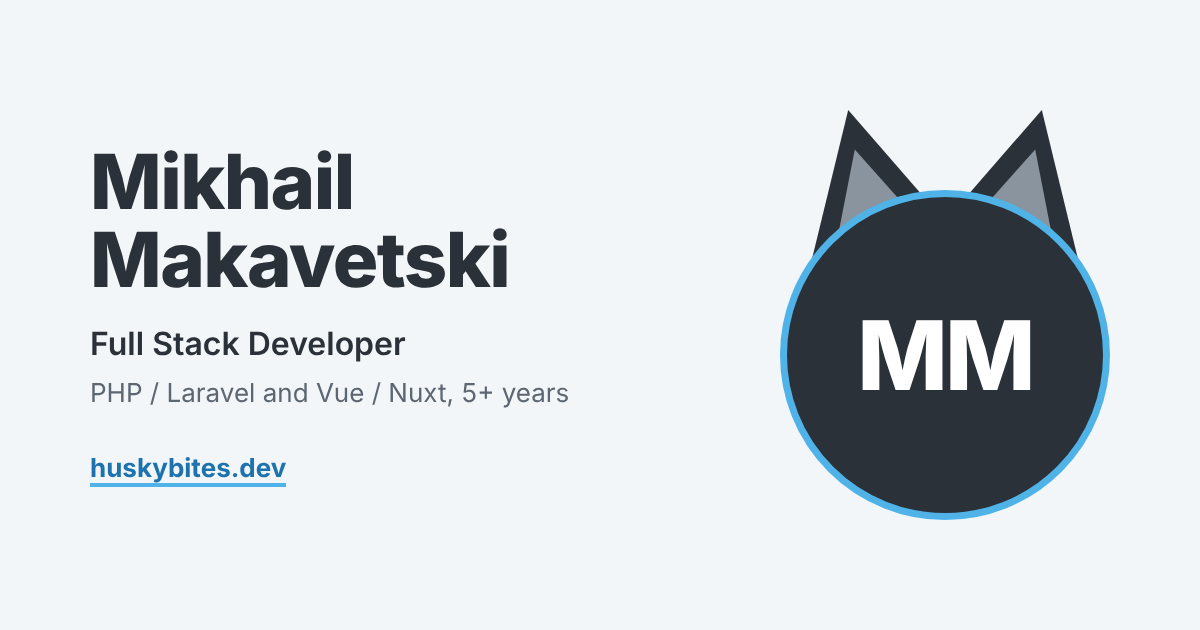
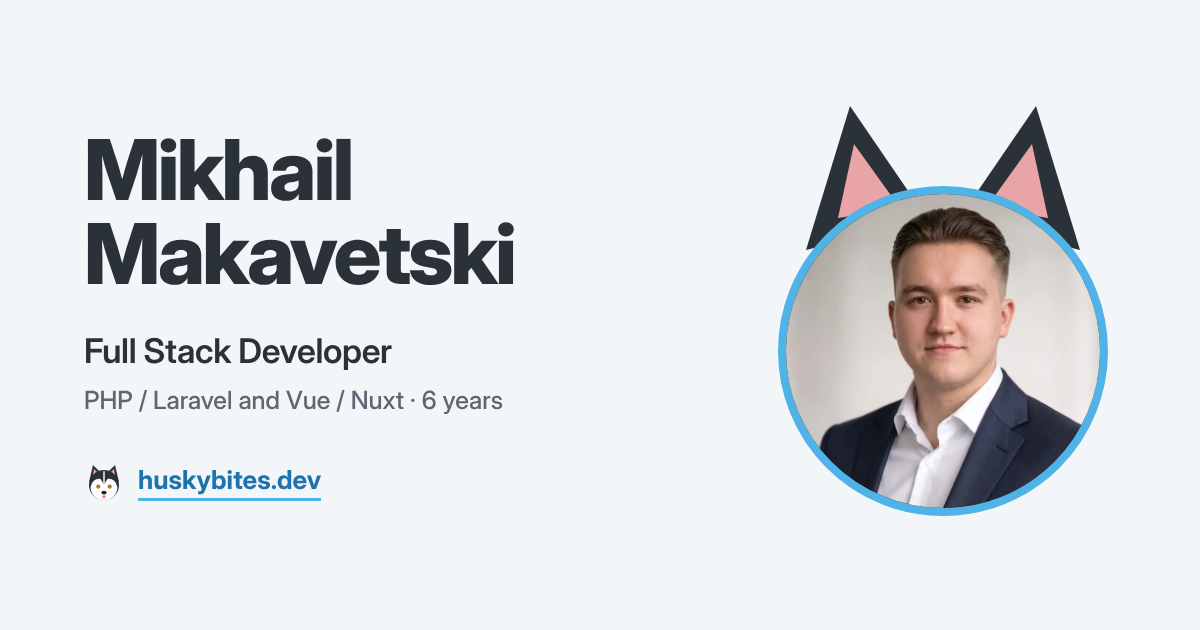
Link preview with the photo, RU and EN

diff --git a/app/components/Portfolio.vue b/app/components/Portfolio.vue
@@ -41,7 +41,11 @@ useHead(() => ({
     { property: 'og:title', content: t.value.title },
     { property: 'og:description', content: t.value.description },
     { property: 'og:url', content: site + (props.lang === 'ru' ? '/' : '/en') },
-    { property: 'og:image', content: `${site}/og.png` },
+    // link preview picture (Telegram, LinkedIn…): photo with the husky ears, in the page's language
+    { property: 'og:image', content: `${site}/${props.lang === 'ru' ? 'og-ru' : 'og'}.png` },
+    { property: 'og:image:width', content: '1200' },
+    { property: 'og:image:height', content: '630' },
+    { property: 'og:image:alt', content: t.value.title },
     { property: 'og:locale', content: props.lang === 'ru' ? 'ru_RU' : 'en_US' },
     { name: 'twitter:card', content: 'summary_large_image' },
     { name: 'theme-color', content: '#2B3138' },
@@ -171,7 +175,7 @@ function cvClick() {
         <p class="note">{{ t.languages }}</p>
 
         <h2 class="sub">{{ t.educationTitle }}</h2>
-        <p class="edu"><span class="period">{{ t.education.period }}</span> {{ t.education.text }}</p>
+        <p class="edu"><span class="period">{{ t.education.period }}</span><span>{{ t.education.text }}</span></p>
       </section>
 
       <section id="contacts" class="block contacts">
@@ -336,8 +340,8 @@ h3 { font-size: 20px; margin: 0; color: var(--ink); }
 .skills dt { color: var(--muted); }
 .skills dd { margin: 0; color: var(--ink); max-width: 72ch; }
 .note { color: var(--muted); margin: 22px 0 0; }
-.edu { margin: 0; color: var(--ink); }
-.edu .period { display: inline-block; min-width: 190px; margin-right: 32px; }
+/* same columns as the experience and skills: the text wraps in its own column, not under the years */
+.edu { margin: 0; color: var(--ink); display: grid; grid-template-columns: 190px 1fr; gap: 32px; }
 
 .contacts { display: grid; grid-template-columns: 1fr minmax(280px, 460px); gap: 32px; align-items: center; }
 .contacts .note { margin: -12px 0 18px; }
@@ -408,7 +412,7 @@ a:focus-visible { outline: 3px solid var(--ice); outline-offset: 3px; border-rad
   .job, .skills { grid-template-columns: 1fr; gap: 6px; }
   .skills dd { margin-bottom: 10px; }
   .job-body { padding-left: 20px; }
-  .edu .period { min-width: 0; display: block; margin-bottom: 4px; }
+  .edu { grid-template-columns: 1fr; gap: 4px; }
   .nav { gap: 14px; }
   .nav a:not(.lang) { display: none; }
 }
